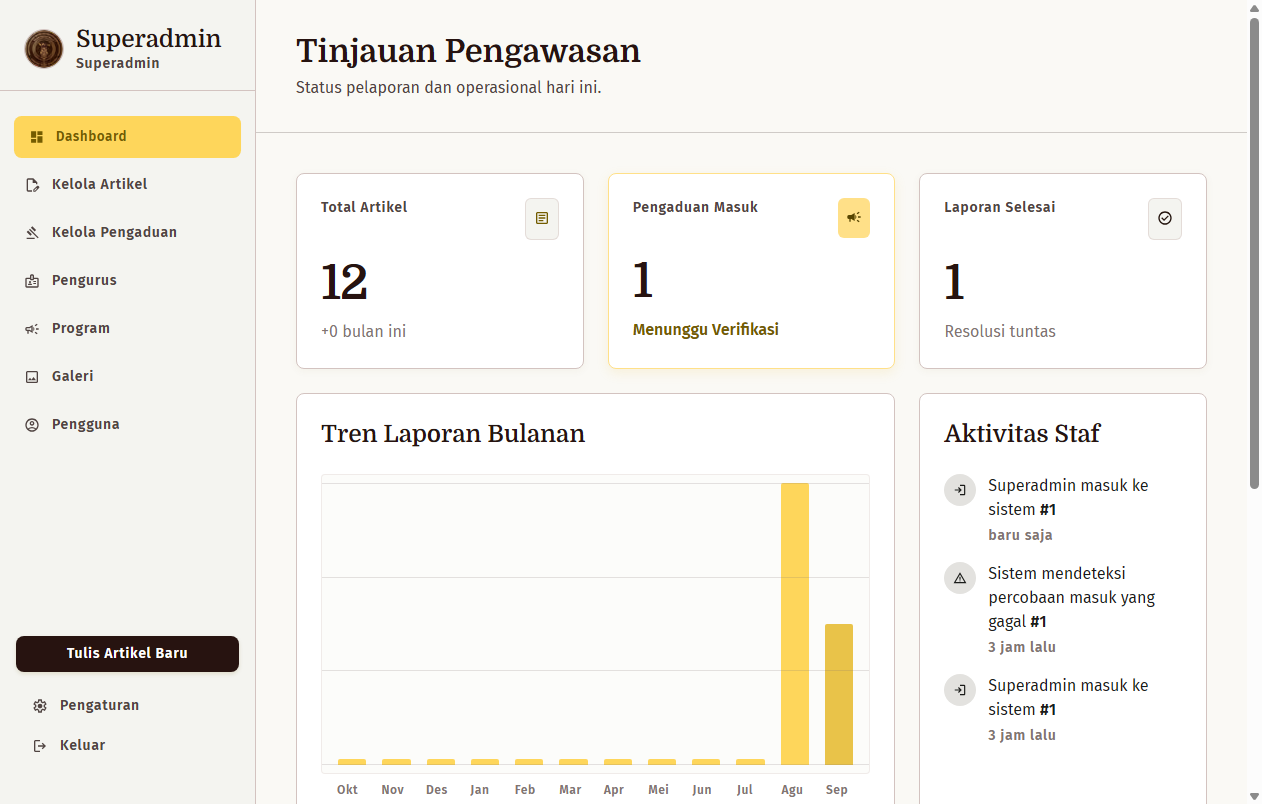
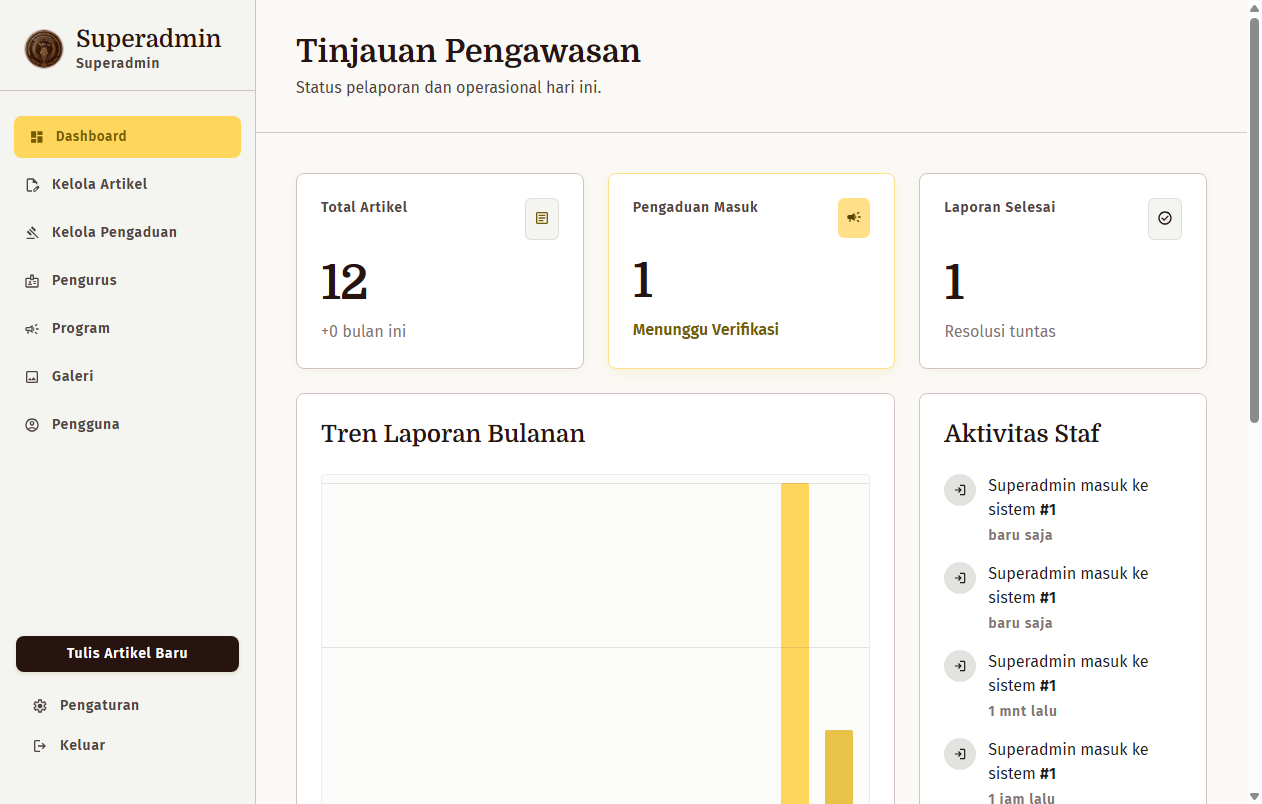
STATUS: SELESAI — verifikasi akhir produksi LULUS (14 layar cacat 0, pemisahan host, wss 101, CSP/HSTS, pengaduan anonim end-to-end), ringkasan penutup + DAFTAR TINDAKAN PEMILIK (kritis: rahasia di layer image Coolify)
Claude-Session: https://claude.ai/code/session_01HL6sXghJoQAFiptY2Xiwft

Changed region(s): [[0.7417, 0.6841, 0.9271, 1.0], [0.2781, 0.7774, 0.6799, 1.0], [0.9889, 0.5286, 1.0, 0.6219]]

diff --git a/laporan/bukti-tahap-09/akhir-d4b-kesetiaan-14-layar-produksi.md b/laporan/bukti-tahap-09/akhir-d4b-kesetiaan-14-layar-produksi.md
@@ -1,0 +1,106 @@
+# D4b — kesetiaan 14 layar pada https://warkopnusantara.id — 2026-09-03T20:20:02.116Z
+login staf: ok; slug artikel: indikasi-penyelewengan-dana-desa-mekarsari; id artikel editor: 10
+
+| # | Layar desain | Halaman | HTTP | Cakupan kelas | Kelas hilang | Token hilang | Teks hilang | Sisa cacat export |
+|---|---|---|---|---|---|---|---|---|
+| 1 | beranda_warkop_nusantara | / | 200 | 97% (222/230) | 8 | 0 | 5 | 0 |
+| 2 | tentang_kami_warkop_nusantara | /tentang | 200 | 90% (141/157) | 16 | 1 | 0 | 0 |
+| 3 | struktur_organisasi | /struktur | 200 | 91% (158/173) | 15 | 1 | 2 | 0 |
+| 4 | program_kegiatan | /program | 200 | 81% (144/178) | 34 | 3 | 3 | 0 |
+| 5 | galeri_dokumentasi | /galeri | 200 | 93% (169/181) | 12 | 0 | 2 | 0 |
+| 6 | kontak_pengaduan_warkop_nusantara_updated_logo | /kontak | 200 | 97% (193/199) | 6 | 2 | 5 | 0 |
+| 7 | portal_berita_beranda | /berita | 200 | 83% (169/203) | 34 | 1 | 12 | 0 |
+| 8 | daftar_berita_investigasi | /berita | 200 | 93% (151/162) | 11 | 3 | 4 | 0 |
+| 9 | detail_artikel_investigasi | /berita/indikasi-penyelewengan-dana-desa-mekarsari | 200 | 86% (140/162) | 22 | 1 | 4 | 0 |
+| 10 | login_staff_warkop_nusantara | /login | 200 | 99% (78/79) | 1 | 0 | 1 | 0 |
+| 11 | dashboard_staff_warkop | /staf/dashboard | 200 | 89% (135/151) | 16 | 3 | 8 | 0 |
+| 12 | kelola_artikel_admin | /staf/artikel | 200 | 88% (114/129) | 15 | 0 | 8 | 0 |
+| 13 | editor_artikel_admin | /staf/artikel/10 | 200 | 91% (150/165) | 15 | 0 | 15 | 0 |
+| 14 | kelola_pengaduan_admin | /staf/pengaduan | 200 | 63% (138/218) | 80 | 3 | 22 | 0 |
+
+RINGKASAN D4b: 14 layar; HTTP bukan 200: 0; total sisa cacat export: 0 -> LULUS (cacat export nol semua)
+
+## Rincian per layar
+### 1. beranda_warkop_nusantara → /
+- kelas hilang (8): bg-outline, bg-secondary-container/30, bg-surface-variant, h-1.5, hover:text-primary, md:gap-0, min-h-screen, w-1.5
+- token hilang: -
+- teks hilang: Dugaan Penyelewengan Dana Desa di Sektor Infrastruktur Terungkap | Fasilitas Kesehatan Mangkrak di Daerah Pelosok | Lihat Semua Berita arrow_forward | campaign Sampaikan Pengaduan | menu_book Pelajari Prosedur
+- cacat export: {"ikonSebagaiTeks":0,"googleusercontent":0,"cdnTailwind":0,"fontsGoogleapis":0,"important":0,"seratusVh":0,"hrefKosong":0}
+
+### 2. tentang_kami_warkop_nusantara → /tentang
+- kelas hilang (16): antialiased, bg-secondary-fixed-dim, bg-surface-variant, border-outline-variant/30, bottom-0, hover:bg-secondary-fixed, hover:text-secondary-fixed, italic, max-w-md, md:mb-0, px-margin-desktop, py-4, rounded, text-on-secondary-fixed-variant, text-surface-variant/80, w-auto
+- token hilang: on-secondary-fixed-variant
+- teks hilang: -
+- cacat export: {"ikonSebagaiTeks":0,"googleusercontent":0,"cdnTailwind":0,"fontsGoogleapis":0,"important":0,"seratusVh":0,"hrefKosong":0}
+
+### 3. struktur_organisasi → /struktur
+- kelas hilang (15): antialiased, bg-primary-container, bottom-0, focus:border-secondary-fixed-dim, focus:ring-secondary-fixed-dim, hover:bg-tertiary-container, md:gap-8, md:mb-0, min-h-screen, opacity-60, pl-10, placeholder:opacity-50, placeholder:text-on-primary, pr-4, px-margin-desktop
+- token hilang: tertiary-container
+- teks hilang: Lukas Enembe, S.H. | Profil arrow_forward
+- cacat export: {"ikonSebagaiTeks":0,"googleusercontent":0,"cdnTailwind":0,"fontsGoogleapis":0,"important":0,"seratusVh":0,"hrefKosong":0}
+
+### 4. program_kegiatan → /program
+- kelas hilang (34): antialiased, bg-primary-container, border-primary, bottom-0, disabled:opacity-50, flex-1, focus:border-secondary-fixed-dim, h-10, hide-scrollbar, hover:bg-secondary-fixed-dim, justify-start, md:gap-8, md:justify-center, md:justify-end, md:mb-0, md:pb-0, md:px-0, min-h-screen, min-w-max, mt-12, opacity-70, overflow-x-auto, p-2, pb-2, pl-10, placeholder-on-primary-container, pointer-events-none, pr-4, px-2, text-on-primary-container, text-on-secondary-fixed, text-secondary, w-10, whitespace-nowrap
+- token hilang: on-primary-container, on-secondary-fixed, primary-container
+- teks hilang: Baca Hasil Observasi arrow_forward | Lihat Laporan Detail arrow_forward | Tautan Penting
+- cacat export: {"ikonSebagaiTeks":0,"googleusercontent":0,"cdnTailwind":0,"fontsGoogleapis":0,"important":0,"seratusVh":0,"hrefKosong":0}
+
+### 5. galeri_dokumentasi → /galeri
+- kelas hilang (12): hover:border-primary, max-w-sm, mb-8, md:gap-8, md:mb-0, min-h-screen, mt-12, mt-auto, p-2, px-8, px-margin-desktop, py-3
+- token hilang: -
+- teks hilang: Muat Lebih Banyak expand_more | filter_list Terapkan Filter
+- cacat export: {"ikonSebagaiTeks":0,"googleusercontent":0,"cdnTailwind":0,"fontsGoogleapis":0,"important":0,"seratusVh":0,"hrefKosong":0}
+
+### 6. kontak_pengaduan_warkop_nusantara_updated_logo → /kontak
+- kelas hilang (6): hover:text-on-error-container, max-w-md, md:gap-12, min-h-screen, mt-6, text-error
+- token hilang: error, on-error-container
+- teks hilang: Kirim Laporan Resmi send | Masuk Staff login | contact_phone Hubungi Kami | edit_document Formulir Pengaduan Resmi | map Kantor Regional
+- cacat export: {"ikonSebagaiTeks":0,"googleusercontent":0,"cdnTailwind":0,"fontsGoogleapis":0,"important":0,"seratusVh":0,"hrefKosong":0}
+
+### 7. portal_berita_beranda → /berita
+- kelas hilang (34): aspect-[16/9], bg-on-primary/10, bg-surface-container, bg-surface/90, border-l-4, border-on-primary/20, border-primary, bottom-0, focus:ring-secondary-fixed-dim, hover:bg-secondary-fixed, hover:border-primary, hover:shadow-sm, hover:text-primary, justify-start, max-w-md, md:block, md:justify-center, md:mb-0, md:min-w-0, md:overflow-visible, min-h-screen, min-w-max, overflow-x-auto, p-5, placeholder:text-on-primary/60, px-2, px-6, px-margin-desktop, text-primary-container, text-secondary, top-3, top-[72px], w-64, z-40
+- token hilang: primary-container
+- teks hilang: Baca Laporan Lengkap arrow_forward | Berita Terkini | Buat Laporan shield | Dugaan Monopoli Pengadaan Logistik Bantuan Bencana | Konsolidasi Relawan Pengawas Pemilu Daerah Jawa Timur Berjalan Sukses | Mantan Pejabat Daerah Diperiksa Terkait Aliran Dana Hibah | Membaca Ulang UU Keterbukaan Informasi Publik di Era Digital | Opini: Saatnya Kembalikan Marwah Aparatur Sipil Negara | Panduan Membuat Laporan Pengaduan yang Efektif di Portal Kami | Pernyataan Resmi Warkop Nusantara Terkait Isu Kenaikan Harga Pangan
+- cacat export: {"ikonSebagaiTeks":0,"googleusercontent":0,"cdnTailwind":0,"fontsGoogleapis":0,"important":0,"seratusVh":0,"hrefKosong":0}
+
+### 8. daftar_berita_investigasi → /berita
+- kelas hilang (11): antialiased, bg-primary-container, bg-surface-variant, border-primary-fixed-dim, light, max-w-sm, min-h-screen, mx-1, px-margin-desktop, text-on-primary-container, text-secondary
+- token hilang: on-primary-container, primary-container, primary-fixed-dim
+- teks hilang: Analisis Dokumen AMDAL Kawasan Industri Baru | Hukum & Kebijakan | Layanan Publik | Lingkungan
+- cacat export: {"ikonSebagaiTeks":0,"googleusercontent":0,"cdnTailwind":0,"fontsGoogleapis":0,"important":0,"seratusVh":0,"hrefKosong":0}
+
+### 9. detail_artikel_investigasi → /berita/indikasi-penyelewengan-dana-desa-mekarsari
+- kelas hilang (22): antialiased, bg-surface-container-low, bg-white/10, border-l-4, border-secondary, bottom-0, hover:bg-white/20, left-2, max-w-sm, mb-4, min-h-screen, my-10, opacity-30, p-6, pl-6, px-margin-desktop, rounded, text-4xl, text-outline-variant, text-right, top-2, z-10
+- token hilang: surface-container-low
+- teks hilang: Laporan Rutin Audit Dana Desa Kuartal III: Temuan Awal Rangkuman hasil observasi tim regional terhadap alokasi dana desa di wilayah timur. | Metodologi Pengawasan Partisipatif | Opini Pentingnya Pengawasan Sipil Dalam Demokrasi Analisis peran aktif masyarakat sipil dalam menjaga keseimbangan kekuasaan pemerintahan lokal. | Panduan Cara Aman Menyampaikan Laporan Pengaduan Langkah demi langkah menggunakan platform kami untuk memastikan keamanan identitas pelapor.
+- cacat export: {"ikonSebagaiTeks":0,"googleusercontent":0,"cdnTailwind":0,"fontsGoogleapis":0,"important":0,"seratusVh":0,"hrefKosong":0}
+
+### 10. login_staff_warkop_nusantara → /login
+- kelas hilang (1): min-h-screen
+- token hilang: -
+- teks hilang: Masuk Sistem login
+- cacat export: {"ikonSebagaiTeks":0,"googleusercontent":0,"cdnTailwind":0,"fontsGoogleapis":0,"important":0,"seratusVh":0,"hrefKosong":0}
+
+### 11. dashboard_staff_warkop → /staf/dashboard
+- kelas hilang (16): bg-on-secondary-fixed-variant, bg-outline, bg-tertiary-fixed, border-secondary-fixed-dim, border-tertiary-fixed-dim, gap-1.5, h-1.5, h-screen, hover:bg-surface-container, ml-64, px-3, py-1, text-[12px], text-on-tertiary-fixed-variant, w-1.5, w-1/6
+- token hilang: on-tertiary-fixed-variant, surface-container, tertiary-fixed
+- teks hilang: Buat Laporan Baru | Lihat Semua arrow_forward | Staff Warkop | dashboard Dashboard | edit_document Kelola Artikel | gavel Kelola Pengaduan | logout Keluar | settings Pengaturan
+- cacat export: {"ikonSebagaiTeks":0,"googleusercontent":0,"cdnTailwind":0,"fontsGoogleapis":0,"important":0,"seratusVh":0,"hrefKosong":0}
+
+### 12. kelola_artikel_admin → /staf/artikel
+- kelas hilang (15): bg-opacity-20, bg-surface-container-highest, flex-shrink-0, h-screen, justify-center, mb-1, min-h-screen, ml-64, mt-4, mt-auto, no, pt-4, shadows, space-y-2, z-10
+- token hilang: -
+- teks hilang: Staff Warkop | add Buat Laporan Baru | dashboard Dashboard | edit_document Kelola Artikel | gavel Kelola Pengaduan | logout Keluar | post_add Tulis Artikel Baru | settings Pengaturan
+- cacat export: {"ikonSebagaiTeks":0,"googleusercontent":0,"cdnTailwind":0,"fontsGoogleapis":0,"important":0,"seratusVh":0,"hrefKosong":0}
+
+### 13. editor_artikel_admin → /staf/artikel/10
+- kelas hilang (15): bg-surface-variant, bg-tertiary, border-t, h-12, h-screen, leading-none, light, min-h-screen, ml-64, mt-4, mt-auto, pt-4, text-[18px], text-[24px], w-12
+- token hilang: -
+- teks hilang: Indonesia Timur | Jawa & Bali | Laporan Pengawasan | Nasional (Pusat) | Staff Warkop | add Buat Laporan Baru | dashboard Dashboard | edit_document Kelola Artikel | format_h1 | format_h2
+- cacat export: {"ikonSebagaiTeks":0,"googleusercontent":0,"cdnTailwind":0,"fontsGoogleapis":0,"important":0,"seratusVh":0,"hrefKosong":0}
+
+### 14. kelola_pengaduan_admin → /staf/pengaduan
+- kelas hilang (80): aspect-video, backdrop-blur-sm, before:absolute, before:bg-outline-variant, before:bg-secondary-fixed-dim, before:bottom-0, before:bottom-2, before:content-[''], before:left-0, before:left-[11px], before:rounded-l-lg, before:top-0, before:top-2, before:w-1, before:w-[2px], bg-primary-container, bg-primary/40, bg-primary/60, bg-surface-container-low/30, bg-surface-container-lowest, border-2, border-b-2, border-b-transparent, border-dashed, border-primary-container, border-surface, border-tertiary, cursor-not-allowed, flex-shrink-0, focus:border-b-secondary, focus:border-secondary, focus:ring-2, focus:ring-secondary, gap-8, grid, grid-cols-2, h-20, h-6, h-screen, hover:text-secondary-fixed, inset-0, italic, items-end, leading-relaxed, lg:flex-row, lg:w-80, max-h-[921px], max-w-4xl, mb-1, mb-3, min-h-screen, ml-0, mt-0.5, mt-2, opacity-0, overflow-x-hidden, p-0, p-2.5, p-3, p-5, p-6, pt-4, px-2, resize-none, shadow-[0_10px_40px_-10px_rgba(39,19,16,0.3)], sm:items-center, sm:p-6, sm:rounded-xl, space-y-2, space-y-3, space-y-6, text-[12px], text-lg, text-secondary-fixed, tracking-wider, transition-transform, w-20, w-6, z-10, z-40
+- token hilang: secondary-fixed, surface-container-lowest, tertiary
+- teks hilang: Baru (12) | Baru Masuk | Bukti Lampiran | Catatan Internal (Staff Only) | Deskripsi Kejadian | Detail Laporan #WRP-9021 | Diproses (45) | Diproses (Investigasi) | Ditolak (Kurang Bukti) | Riwayat Aktivitas
+- cacat export: {"ikonSebagaiTeks":0,"googleusercontent":0,"cdnTailwind":0,"fontsGoogleapis":0,"important":0,"seratusVh":0,"hrefKosong":0}

diff --git a/laporan/STATUS.md b/laporan/STATUS.md
@@ -36,7 +36,33 @@ MODE OTONOM dilanjutkan. Perintah pemilik untuk server/produksi terangkum di
 - Container app produksi: image tag = commit c97e255 (HEAD saat run dilanjutkan),
   HEALTHY, volume `warkop-unggahan`. DB `warkop_nusantara` KOSONG (belum ada
   tabel) sebelum tugas 5a.
-- Push + redeploy via webhook diizinkan (PERINTAH-PEMILIK-SERVER 3). Webhook port 8000 TIDAK terjangkau dari internet → dipanggil dari dalam server lewat SSH (localhost:8000), token via stdin — KEPUTUSAN BARU. Redeploy Tahap 03 (a2dbb53) sukses 3 Sep 22:45 WIB; Tahap 04 (6e39a1b) 23:28 WIB; Tahap 07 (d38129e) 4 Sep 01:18 WIB; **Tahap 08 (3c64be4) 4 Sep 02:12 WIB**, health 200 (bukti-server/0N-redeploy-tahap-0N.txt; skrip bukti-server/skrip/redeploy.sh). Socket.io wss:// terbukti di produksi (bukti-tahap-08/h-wss-produksi.txt).
+- Push + redeploy via webhook diizinkan (PERINTAH-PEMILIK-SERVER 3). Webhook port 8000 TIDAK terjangkau dari internet → dipanggil dari dalam server lewat SSH (localhost:8000), token via stdin — KEPUTUSAN BARU. Redeploy Tahap 03 (a2dbb53) sukses 3 Sep 22:45 WIB; Tahap 04 (6e39a1b) 23:28 WIB; Tahap 07 (d38129e) 4 Sep 01:18 WIB; Tahap 08 (3c64be4) 4 Sep 02:12 WIB; **Tahap 09: push f9c78d5+f0696fb → Coolify membangun HEAD f0696fb, healthy 4 Sep 03:15 WIB** (bukti-server/09-redeploy-tahap-09.txt; catatan: skrip menunggu tag f9c78d5 sehingga menulis "perlu Redeploy manual" — tidak perlu, image f0696fb memuat seluruh Tahap 09), health 200 (bukti-server/0N-redeploy-tahap-0N.txt; skrip bukti-server/skrip/redeploy.sh). Socket.io wss:// terbukti di produksi (bukti-tahap-08/h-wss-produksi.txt).
 
 ## Posisi terakhir (bila sesi terputus di tengah tahap)
-Tahap 09 LULUS (catatan) + commit f9c78d5. Berikutnya: push + redeploy webhook + verifikasi produksi akhir (14 layar, pemisahan host, wss, pengaduan anonim end-to-end), lalu ringkasan penutup + DAFTAR TINDAKAN PEMILIK, lalu BERHENTI.
+SELESAI. Seluruh tahap 00–09 LULUS dan ter-push; produksi menjalankan image f0696fb (HEAD) HEALTHY; verifikasi akhir di domain LULUS (di bawah). Run MODE OTONOM BERHENTI sesuai perintah — tidak ada tahap berikutnya. Bila prompt dikirim ulang: tidak ada yang perlu dilanjutkan kecuali tindakan pemilik di bawah.
+
+## RINGKASAN PENUTUP (4 Sep 2026, ±03:25 WIB)
+
+Sistem WARKOP NUSANTARA lengkap: situs publik (beranda, tentang, struktur, program, galeri, berita + detail, kontak/pengaduan, lacak, FAQ/privasi/pedoman), ruang staf lima peran (dashboard realtime, artikel + editor, pengaduan + buku besar, pengurus/program/galeri, pengguna, pengaturan, ganti sandi), API 48 endpoint berpagar peran, Socket.io terautentikasi, MariaDB 14 tabel, Docker/Coolify di warkopnusantara.id + staf.warkopnusantara.id (HTTPS, wss, pemisahan host).
+
+Verifikasi akhir di DOMAIN PRODUKSI (image f0696fb; bukti `laporan/bukti-tahap-09/akhir-*`):
+- Kesetiaan 14 layar pada build produksi: sisa cacat export 0/14; cakupan kelas 63–99 % (alasan tercatat) — `akhir-d4b-kesetiaan-14-layar-produksi.md`.
+- Pemisahan host: `warkopnusantara.id/staf/*` & `/login` → 307 `https://staf.…`; `staf.…/berita` → dashboard; `/staf/*` tanpa sesi → `/login?lanjut=`; http → https 302; `Location` tanpa `0.0.0.0` — `akhir-produksi-host-header-port.txt`.
+- Header keamanan (CSP tanpa unsafe-eval, HSTS preload, Permissions-Policy, X-Frame DENY, nosniff, COOP) dan 0 pelanggaran CSP di 10 halaman publik+staf di Chrome headless; socket `wss://staf.warkopnusantara.id/socket.io/` 101, realtime tersambung — `akhir-b3-header-csp-produksi.txt`, `akhir-h-wss-produksi.txt`.
+- Pengaduan anonim ujung ke ujung: POST 201 → lacak API/halaman (kolom publik saja) → daftar & detail staf: anonim=1, empat kolom identitas NULL → dihapus lunak via SQL — `akhir-pengaduan-anonim-produksi.txt`.
+- `/api/health` 200, container healthy, volume `warkop-unggahan` terpasang.
+
+Yang TIDAK tercapai / TIDAK diuji (jujur): Lighthouse Performance 70–77 (< 90; font belum disubset — keputusan pemilik); Safari iOS/macOS, Chrome Android, Firefox tidak diuji (tidak tersedia); rahasia produksi tertanam di layer image (sisi Coolify — kritis, di bawah); firewall/SSH/panel Coolify belum sesuai daftar periksa (butuh sudo).
+
+## DAFTAR TINDAKAN PEMILIK (urut prioritas)
+
+1. **KRITIS — Coolify → Environment Variables: matikan "Available at Buildtime" untuk SEMUA rahasia** (DB_PASSWORD, JWT_SECRET, SEED_ADMIN_PASSWORD, DB_HOST/USER, STAF_HOST, dll.; sisakan hanya NEXT_PUBLIC_APP_URL/NEXT_PUBLIC_WS_URL). Bukti: `docker history` image f0696fb memuat `DB_PASSWORD=`/`JWT_SECRET=` di 4 layer (`laporan/bukti-tahap-09/c2-log-build-coolify.txt`). Redeploy, lalu cek `docker history --no-trunc <image> | grep -c DB_PASSWORD` = 0.
+2. **Rotasi SEMUA rahasia yang pernah tertulis di chat / layer image**: `DB_PASSWORD` (ubah di MariaDB `ALTER USER 'warkop'@'%' IDENTIFIED BY …` + ENV), `JWT_SECRET` (`openssl rand -hex 48`; seluruh sesi keluar), `SEED_ADMIN_PASSWORD` (ganti sandi admin lewat aplikasi lalu ENV), **token API Coolify** (buat baru, cabut lama; beri izin `deploy` saja). Redeploy setelah tiap perubahan.
+3. **Ganti kata sandi admin segera** lewat `https://staf.warkopnusantara.id/staf/ganti-sandi`; tinjau/ganti artikel, pengurus, program, galeri seed (konten contoh) sebelum diumumkan.
+4. **Volume lampiran pengaduan**: Coolify → Storages → `warkop-lampiran` → `/app/unggahan-terjaga` (tanpa ini lampiran hilang saat redeploy).
+5. **Pengerasan server (butuh sudo)**: firewall hanya 22/80/443 — tutup 8000 (panel Coolify; akses lewat terowongan SSH), 5050, 3000 (sistem lain di server yang sama); sshd `PasswordAuthentication no` + `PermitRootLogin no` (saat ini masih `publickey,password`).
+6. **Cloudflare**: proxy oranye untuk `@` dan `staf` (WebSocket didukung), SSL "Full (strict)"; putuskan nasib `www` (saat ini tidak menjawab).
+7. **Webhook GitHub → Coolify auto-deploy** (push = redeploy) sehingga skrip webhook + token tidak lagi diperlukan.
+8. **Cadangan berkala**: cron harian `scripts/cadangkan-db.sh` (PENERAPAN G.3) + salinan luar server + uji pulih berkala (prosedur sudah teruji: `d5-e-pemulihan-cadangan.txt`).
+9. Keputusan desain yang menunggu (tidak menghalangi): subset font Fira Sans (Performance ≥ 90), navbar kanonik meluap di 1280 px, `galeri-3.mp4` seed hilang, overlay detail pengaduan, tautan "Ganti kata sandi" & tombol "Arsipkan" di antarmuka staf; 13 GET route staf tanpa pemanggil (kontrak API) — hapus atau pertahankan.
+10. Baca `PANDUAN-STAF.md` bersama pengurus; `PENERAPAN.md` bagian 3 = daftar periksa produksi dengan status per butir.
